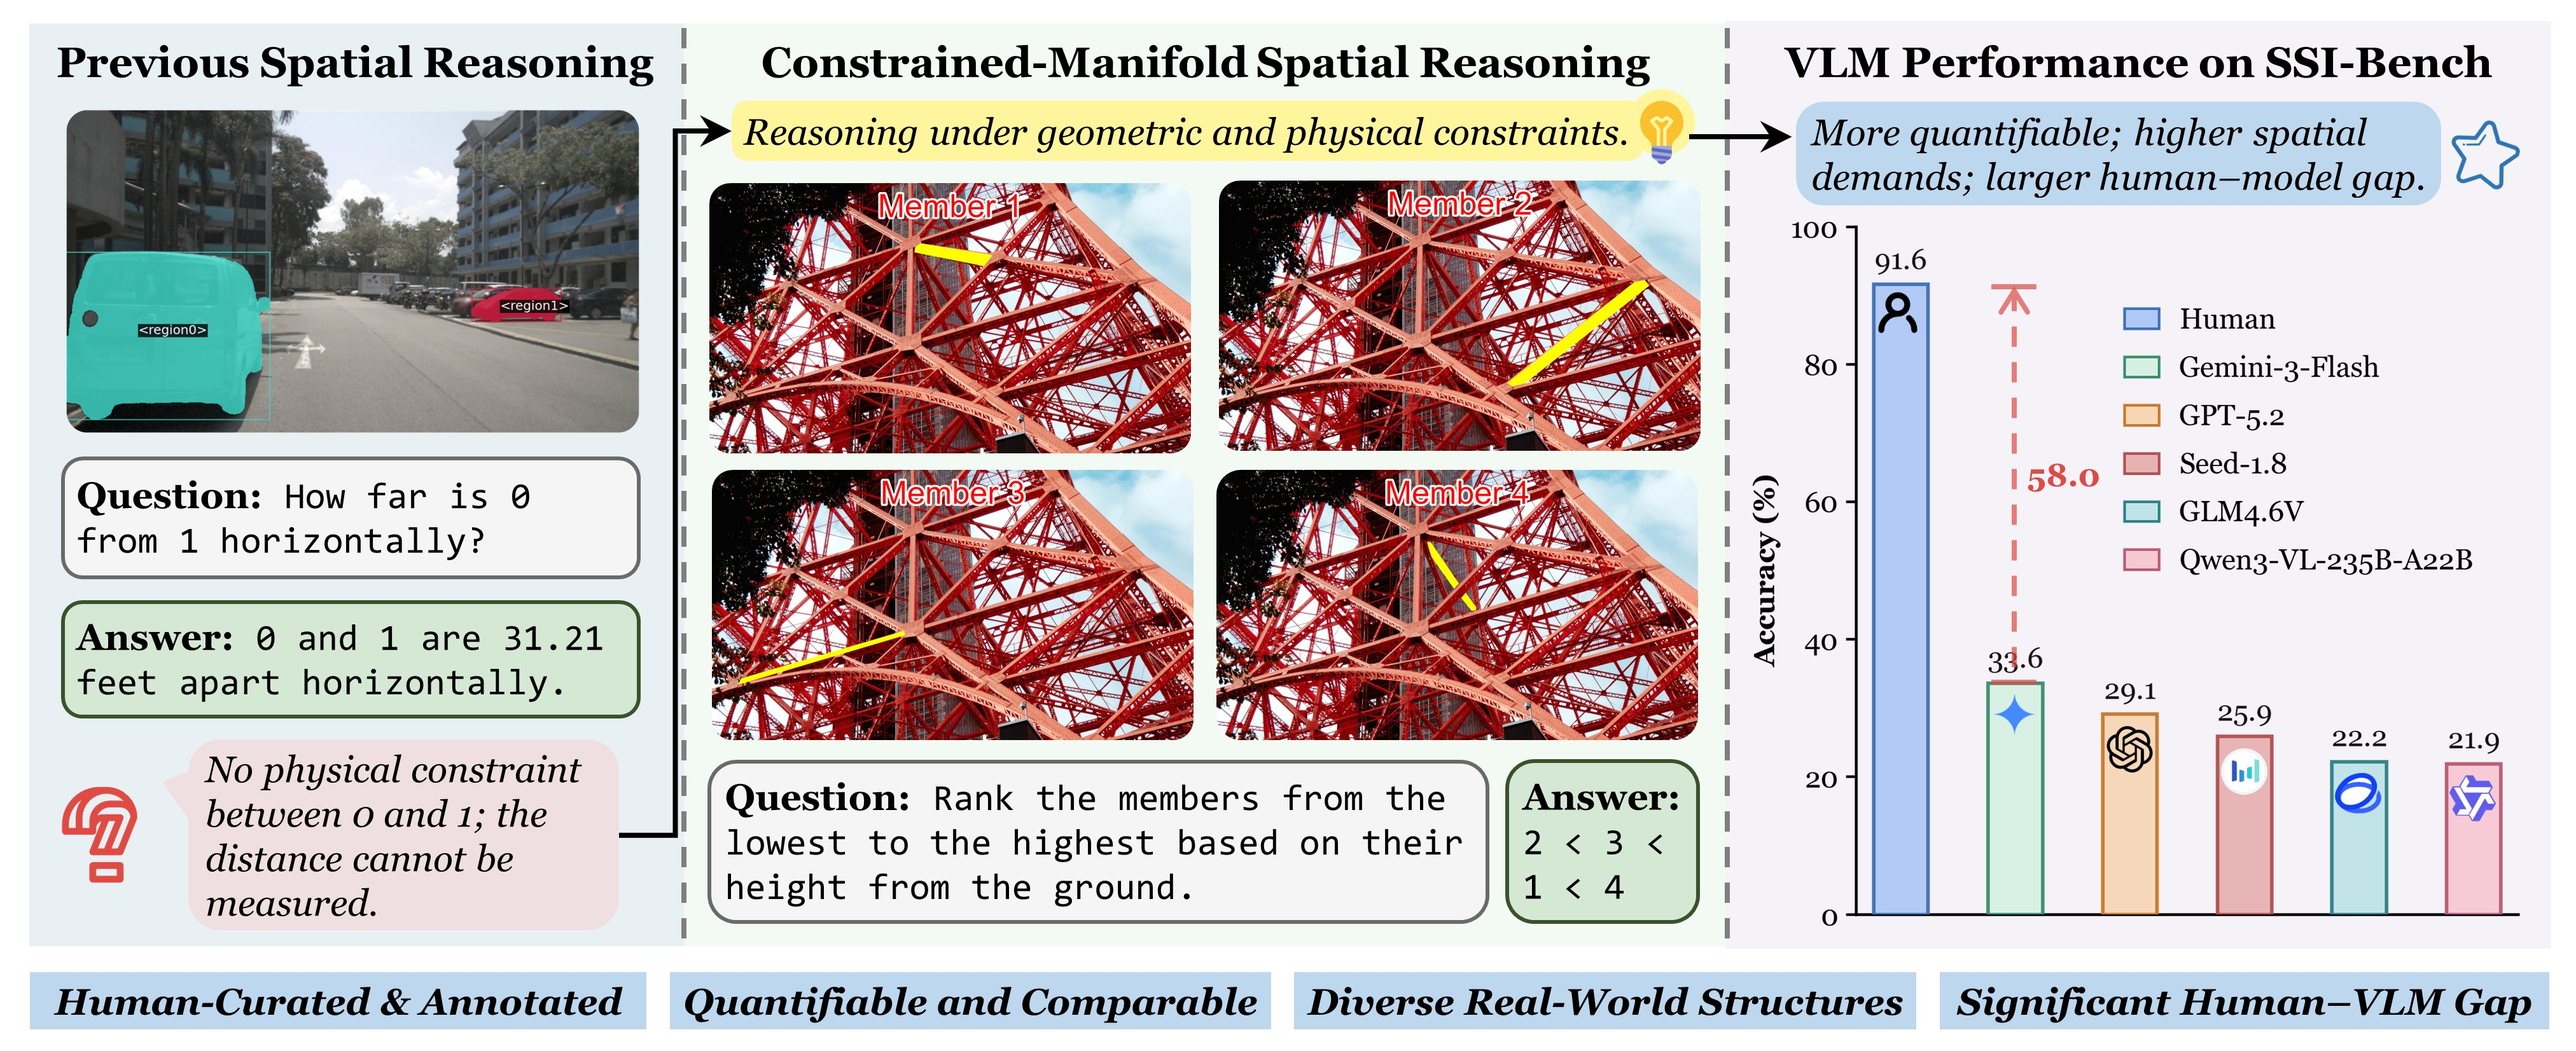
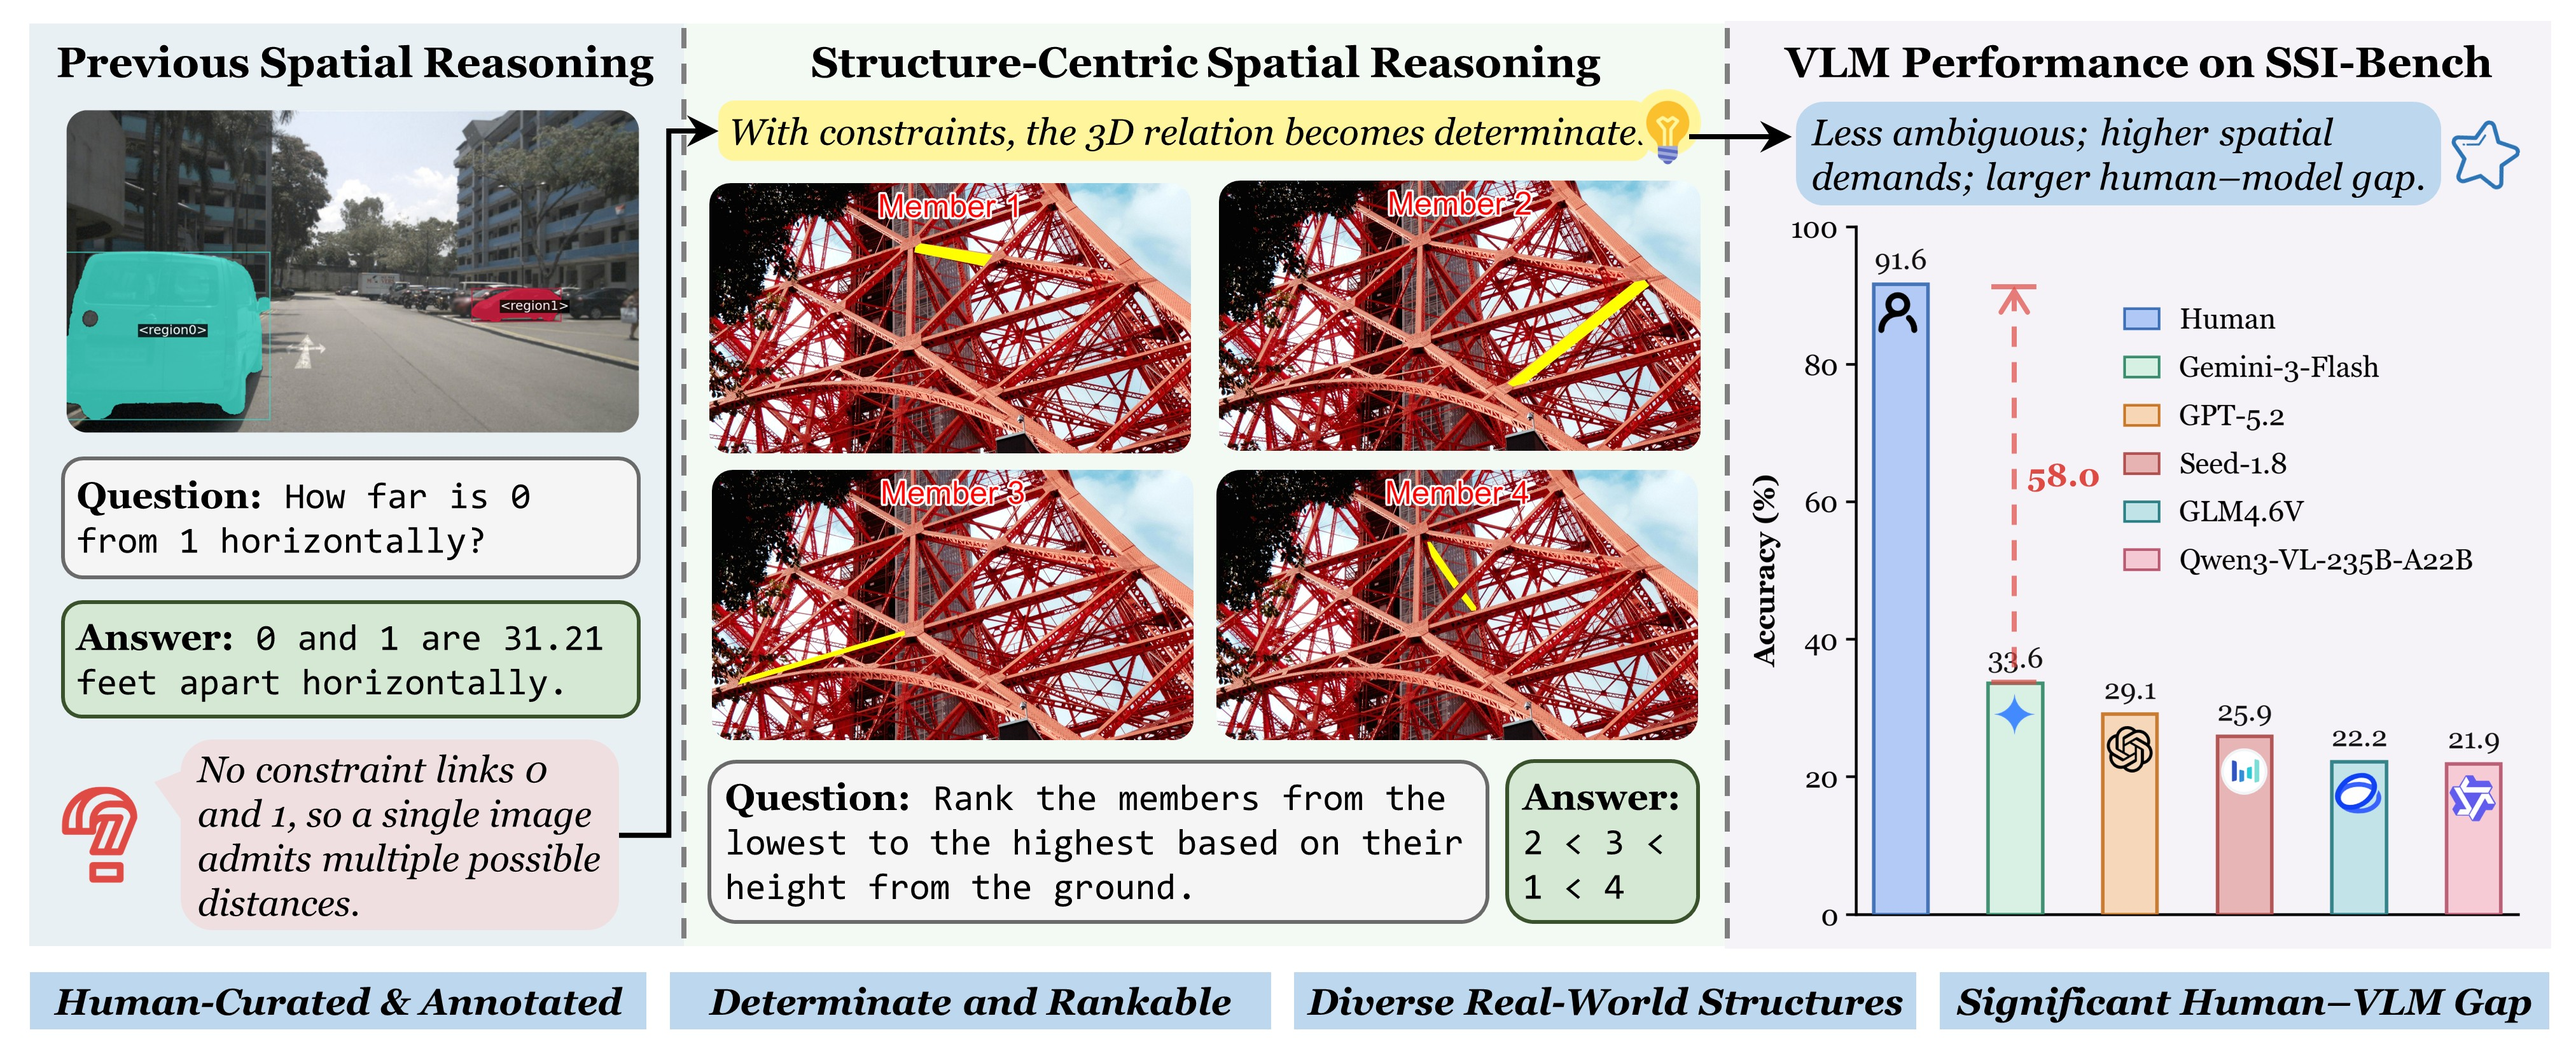
update README

diff --git a/README.md b/README.md
@@ -2,7 +2,7 @@
 
 <img src="./assets/logo.png" width="110" alt="SSI-Bench logo" />
 
-<h1>Thinking in Structures: Evaluating Spatial Intelligence through Reasoning on Constrained Manifolds</h1>
+<h1>Thinking in Structures: Evaluating Spatial Intelligence in Constraint-Governed Spaces</h1>
 
 <p align="center">
   Chen Yang, Guanxin Lin, Youquan He, Peiyao Chen, Guanghe Liu, Yufan Mo, Zhouyuan Xu, Linhao Wang, Guohui Zhang, Zihang Zhang, Shenxiang Zeng,
@@ -23,6 +23,7 @@
 </div>
 
 ## News
+- 🎉 [2026-5-1]: SSI-Bench is accepted by ICML 2026!
 - 🔥 [2026-2-26]: SSI-Bench has been supported in the <a href="https://github.com/open-compass/VLMEvalKit" target="_blank" rel="noopener noreferrer">VLMEvalKit</a> repository.
 - 🔥 [2026-2-10]: We released our paper, benchmark, and evaluation codes.
 
